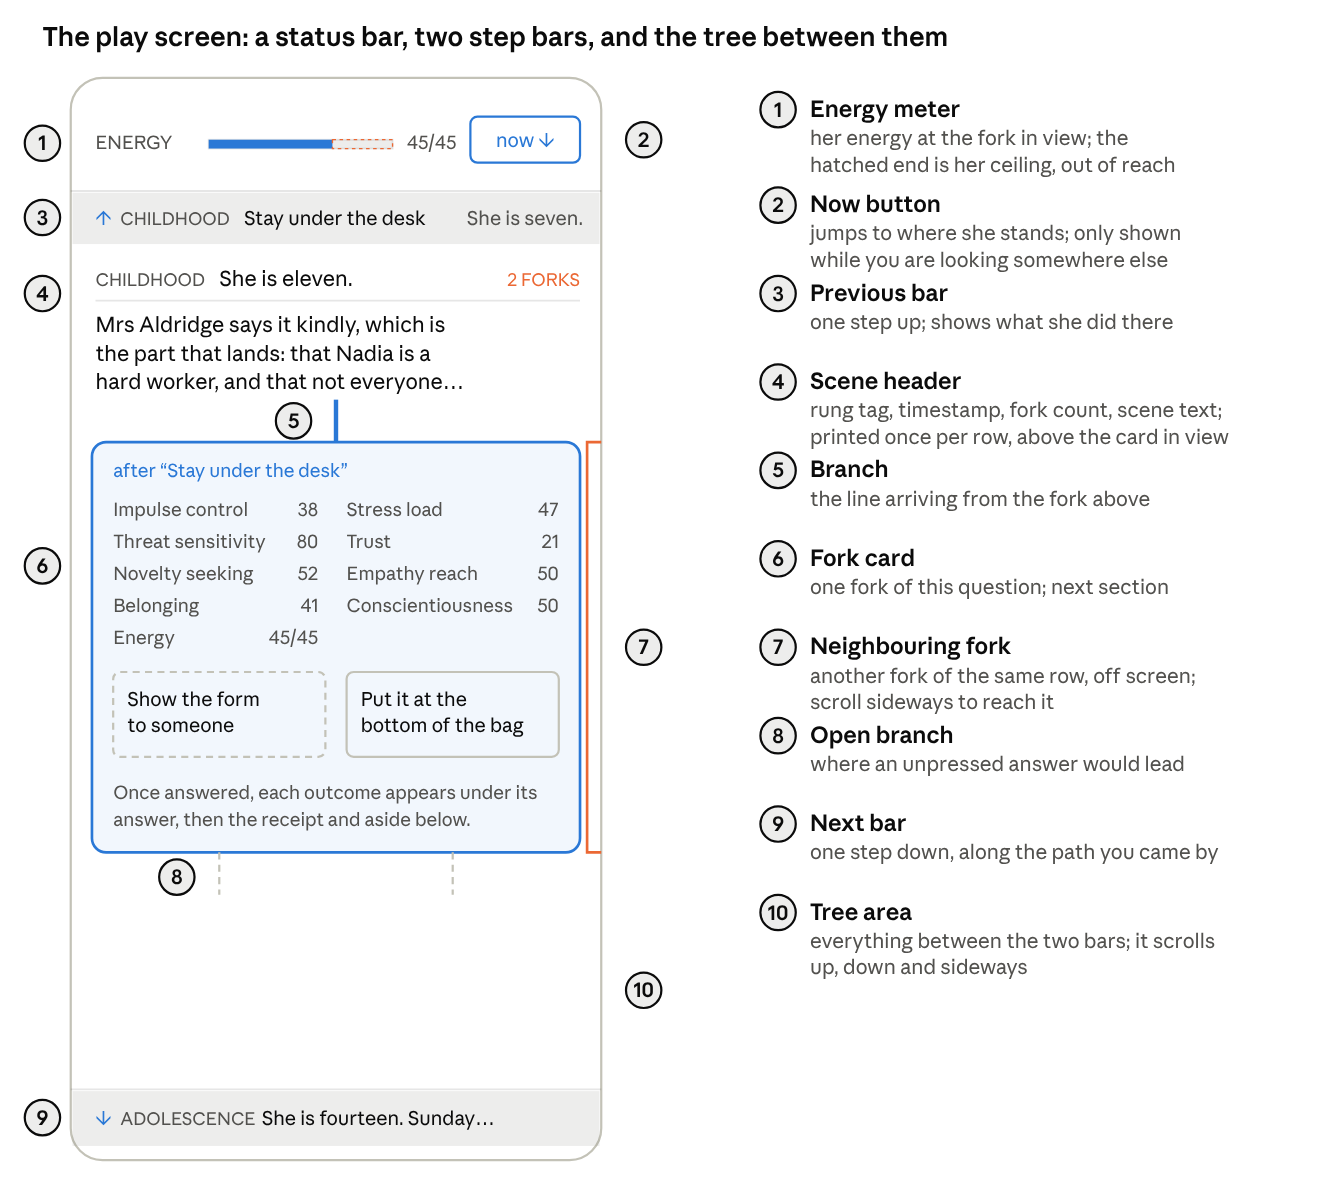
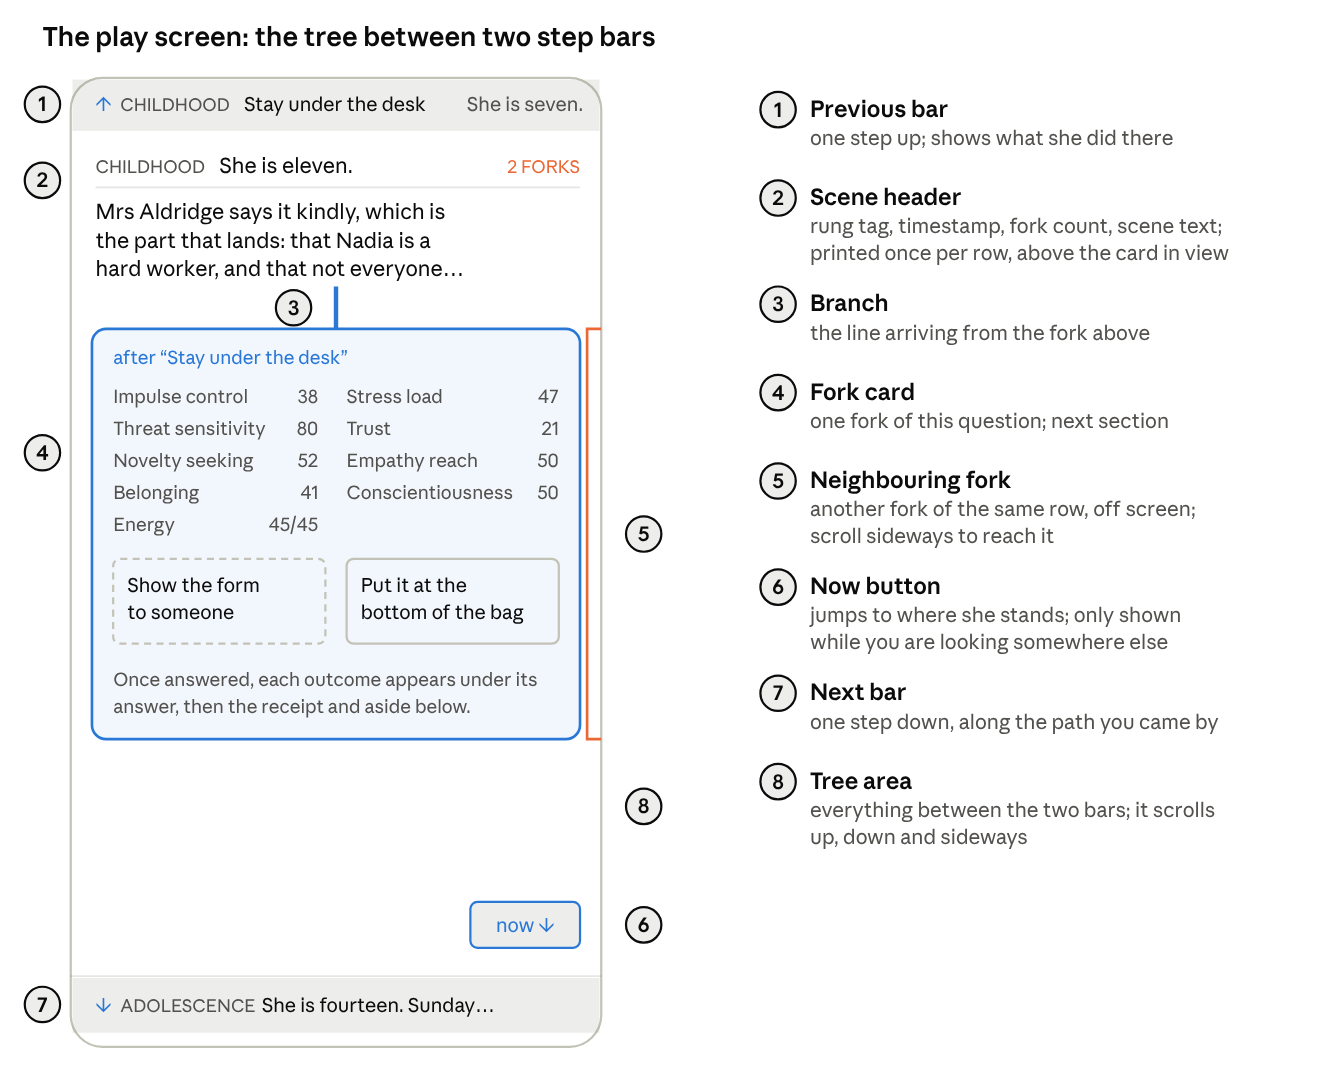
Vocabulary doc: no header, no open-branch stubs, floating Now button
Claude-Session: https://claude.ai/code/session_019QN9r1m9ArPtHyfoJGSZhY

diff --git a/docs/VOCABULARY.md b/docs/VOCABULARY.md
@@ -9,7 +9,7 @@ Every visible thing in the game gets exactly one name here, so a piece of feedba
 - The pictures are drawn mock-ups of the live screen. Numbered markers point at its parts, and a key beside or under each picture names them.
 - The diagrams show things a single screenshot cannot: the shape of the whole tree, and what happens when you press.
 
-Everything here describes the build currently live (`6909462`).
+Everything here describes the build currently live (`2998323`).
 
 ## The big picture: the tree
 
@@ -25,11 +25,11 @@ What you press and what it does to her are kept apart. When the answer you press
 
 ## The play screen
 
-The screen is a scrolling window onto the tree, with a **status bar** at the top and two pinned **step bars**: the **previous bar** above the tree and the **next bar** below it.
+The screen is a scrolling window onto the tree between two pinned **step bars**: the **previous bar** above the tree and the **next bar** below it. There is no header: energy lives on each fork card. While you are looking anywhere other than where she stands, the **Now button** floats at the bottom right.
 
-![The play screen · 10 named parts](vocabulary/play-screen.png)
+![The play screen · 8 named parts](vocabulary/play-screen.png)
 
-The **scene header** belongs to the row, not to a card: it is printed once and slides sideways to sit above whichever fork you are looking at. The **status bar** is the strip holding parts 1 and 2.
+The **scene header** belongs to the row, not to a card: it is printed once and slides sideways to sit above whichever fork you are looking at.
 
 ## Anatomy of a fork card
 
@@ -58,7 +58,7 @@ A **fork card** reads top to bottom: how she got here, what she carries in, the 
 
 This card is a **side** fork, which is why its measures carry deltas against the active fork. The numbers are illustrative.
 
-Under the carry panel sits the **energy line**, which says how her energy arrived at this fork (the drawing above predates it). Before the final day every fork is its own occasion, so it reads "↻ energy reset · a new occasion, she starts this fork full". At the final day's first fork it reads "↻ energy reset · the last day begins", and after that, in gold, "→ energy carried over · same day, what she spent earlier is still spent". The **energy note** under the energy meter repeats it in short.
+Under the carry panel sits the **energy line**, which says how her energy arrived at this fork (the drawing above predates it). Before the final day every fork is its own occasion, so it reads "↻ energy reset · a new occasion, she starts this fork full". At the final day's first fork it reads "↻ energy reset · the last day begins", and after that, in gold, "→ energy carried over · same day, what she spent earlier is still spent".
 
 ## States and colours
 
@@ -71,12 +71,11 @@ Colour always means the same thing: **gold** is the path you are on, **blue** is
 | Card with a faint glow | **Now** | The fork she is standing at, waiting for your answer |
 | Dashed answer button | **Unplayed** | Nobody has pressed this answer at this fork yet |
 | Solid answer button | **Played** | Somebody pressed it; its outcome is shown on the card |
-| Short dashed line under a card | **Open branch** | Where an unplayed answer would lead |
 | Red-bordered answer, red result line | **Confabulated** | You pressed it, and she did the other answer instead |
 | Bright measure in the carry panel | **Lit** | It differs between the forks in this row |
 | Faded measure in the carry panel | **Quiet** | It is the same in every fork of this row |
 | Green or red number beside a measure | **Delta** | Its difference from the active fork; green is better for her, red worse |
-| Hatched right end of the energy bar | **Ceiling** | Energy she cannot reach here, because of sleep debt and stress |
+| Hatched right end of the energy bar in the carry panel | **Ceiling** | Energy she cannot reach here, because of sleep debt and stress |
 | Text in a red frame, in italics | **Confabulation** | Her own explanation for doing what you did not press |
 | Gold text with a gold rule on its left | **Aside** | The narrator talking to you |
 | Two branches meeting at one fork | **Joined** | The press could not change her: she did the other answer and ended up in the same place |
@@ -110,7 +109,7 @@ Two screens come before the tree: the **title screen**, then the **roll**, which
 | **Life label** | "Life one · Ten Digits" — which authored life you are about to play |
 | **Anchor line** | "Nadia calls her father, or she does not." — the one act the life exists to explain |
 | **Roll for a life** | The button that starts a new life |
-| **Build stamp** | "build 6909462" — which version of the game is on screen |
+| **Build stamp** | "build 2998323" — which version of the game is on screen |
 | **Life number** | The number that fixes this life's roll; the same number gives the same birth |
 
 **Roll screen**
@@ -187,8 +186,7 @@ Every name in this doc, alphabetically, with where it is explained.
 | Delta | A lit measure's difference from the active fork | Fork card |
 | Emptied out | Cost above her energy but within her ceiling | Numbers |
 | Ending card | Below the last question: what became of her | Tree |
-| Energy meter | The bar in the status bar; its hatched end is the ceiling. Once the fork in view is answered it shows what is left, with the spend beside the number ("1/40 −39") | Screen |
-| Energy line, energy note | "↻ energy reset" or "→ energy carried over": how her energy arrived at this fork; on the card and, in short, under the meter | Fork card |
+| Energy line | "↻ energy reset" or "→ energy carried over" under the carry panel: how her energy arrived at this fork | Fork card |
 | Focus | Tapping a card to look at it, without changing anything | Moving |
 | Fold line | "3 smaller things": the tiny causes, summed | Fork card |
 | Follow | Pressing a played answer on the active path: steps down | Moving |
@@ -203,9 +201,8 @@ Every name in this doc, alphabetically, with where it is explained.
 | Narration | What actually happened, in a played answer's outcome | Fork card |
 | Never in reach | Cost above her ceiling: "no road here" | Numbers |
 | Next bar, previous bar | The pinned bars at the bottom and top: one step down or up | Screen |
-| Now, Now button | The fork she stands at; the button that jumps there | Tree |
+| Now, Now button | The fork she stands at; the button floating bottom right that jumps there | Tree |
 | Nudge | The tendency answer drawn 1.5% larger at Now | Numbers |
-| Open branch | The short dashed line under an unplayed answer | Tree |
 | Origin, origin result, quip, trait chips | The four parts of the roll and how each is shown | Before |
 | Outcome | What happened for one played answer | Fork card |
 | Path | A chain of answers from the root to a fork | Tree |
@@ -221,7 +218,6 @@ Every name in this doc, alphabetically, with where it is explained.
 | Scene header, scene text | Header above the cards, once per row: scene text, timestamp, fork count; the scene text is the question's prose | Screen |
 | Side path | A path you played and left, drawn blue | Tree |
 | Spend line | The result: flowed, overrode, emptied out or never in reach ("free · the way she was going", "cost 41 of 45") | Fork card |
-| Status bar | The top strip: the energy meter and the Now button | Screen |
 | Step up, step down | Using the previous or next bar | Moving |
 | Switch | Pressing a played answer on a side path; it becomes active | Moving |
 | Tendency | The answer her history leans toward; always free | Numbers |

diff --git a/docs/DESIGN.md b/docs/DESIGN.md
@@ -161,7 +161,7 @@ has pushed them.
 |---|---|
 | **gold** | the life she is in |
 | **blue** | a life stepped out of, still showing what happened |
-| **dashed** | an answer nobody has pressed |
+| **dashed** | an answer nobody has pressed (it draws no branch until pressed) |
 
 Pressing an unpressed answer somewhere behind a life is going back in time.
 Pressing an answer somebody already pressed moves into that life. **Neither costs
